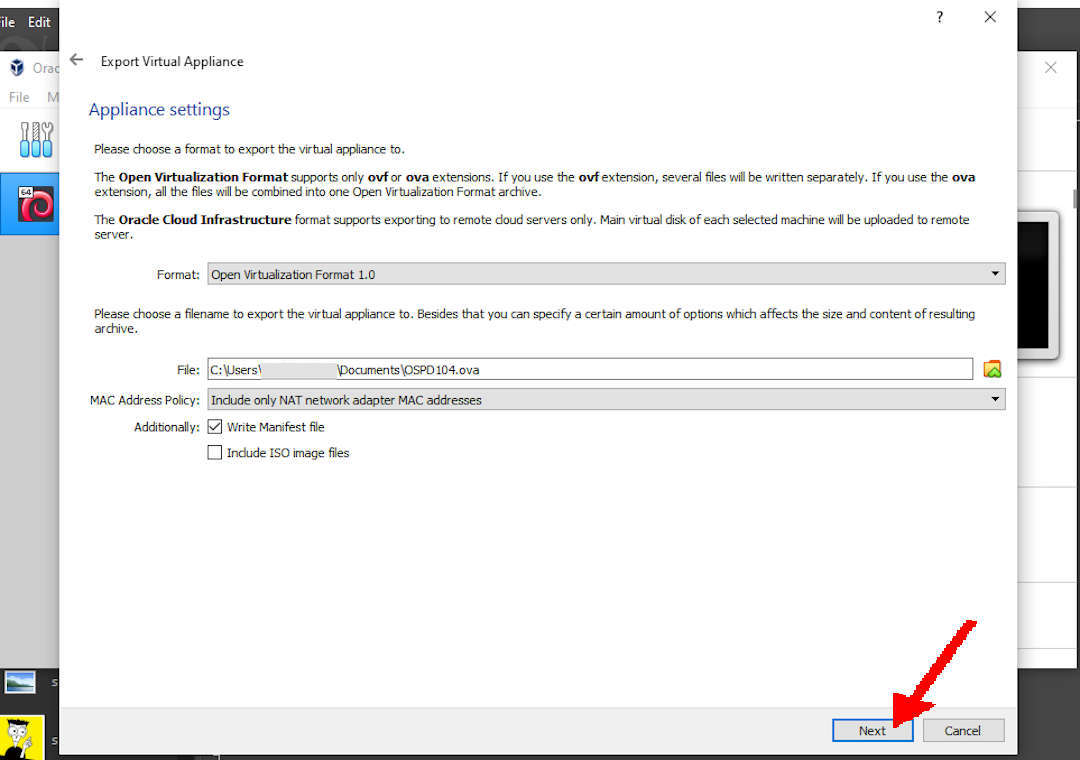
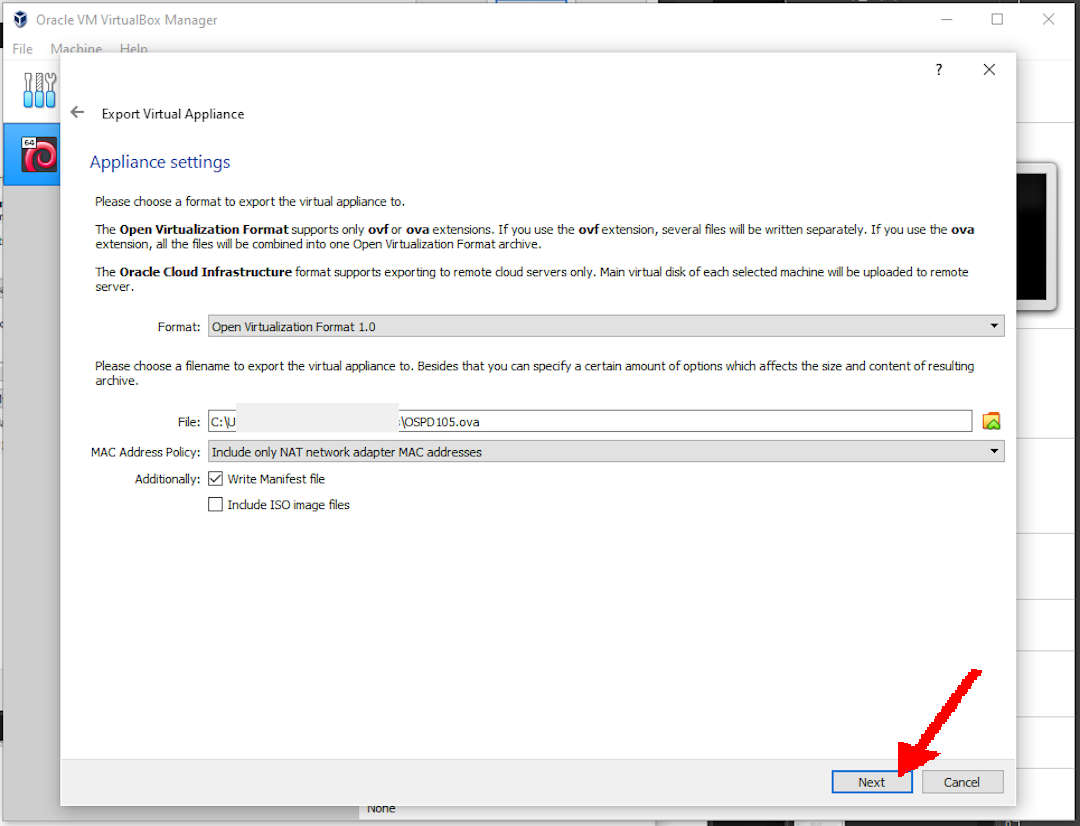
new file:   ../.InstallDebianNetinst.md.swp new file:   ../DebianGuestDeleteOva.md modified:   ../DebianGuestExportOva.md modified:   ../DebianGuestImportOva.md modified:   ../DebianGuestOnVirtualBox.md modified:   ../InstallDebianNetinst.md modified:   ../index.md modified:   B-OSP-01.jpg modified:

Changed region(s): [[0.0, 0.0, 1.0, 1.0], [0.8861, 0.7868, 0.9167, 0.8474]]

diff --git a/DebianGuestImportOva.md b/DebianGuestImportOva.md
@@ -8,20 +8,31 @@
 [TOP](#)
 [BOTTOM](#endofpage)
 [PREV](DebianGuestExportOva.md)
-[NEXT](InstallDebianNetinst.md)
+[NEXT](DebianGuestDeleteOva.md)
 
 # Importing a Debian Guest In OVA Format
 
-You might want to keep **OSPD104** as a backup, and using **OSPD104a** for daily usage.
+## Eg. You might want to keep <span style="color:red; font-weight:bold; font-size:larger;">OSPD105</span> as a backup, and using <span style="color:red; font-weight:bold; font-size:larger;">OSPD105a</span> for daily usage.
 
-<img src="pictures/F-OSP-05.jpg"  width="960">
+<img src="pictures/F-OSP-05b.jpg"  width="960">
+
+<br>
+## Importing OSPD105.ova
 
 <img src="pictures/F-OSP-06.jpg"  width="960">
 
 <br>
-## New Name: "OSPD104a"
+## Open <span style="color:red; font-weight:bold; font-size:larger;">OSPD105.ova</span>
 
-<img src="pictures/F-OSP-07.jpg"  width="960">
+<img src="pictures/F-OSP-07a.jpg"  width="960">
+
+<br>
+## Rename <span style="color:red; font-weight:bold; font-size:larger;">OSPD105</span> to <span style="color:red; font-weight:bold; font-size:larger;">OSPD105a</span>.
+
+<img src="pictures/F-OSP-07b.jpg"  width="960">
+
+<br>
+## Your OSPD105a Guest is READY!
 
 <img src="pictures/F-OSP-08.jpg"  width="960">
 
@@ -37,6 +48,6 @@ You might want to keep **OSPD104** as a backup, and using **OSPD104a** for daily
 [TOP](#)
 [BOTTOM](#endofpage)
 [PREV](DebianGuestExportOva.md)
-[NEXT](InstallDebianNetinst.md)
+[NEXT](DebianGuestDeleteOva.md)
 <br>
 

diff --git a/index.md b/index.md
@@ -10,17 +10,18 @@
 
 # Setting Up a Debian Guest
 
-* [Installing Free Download Manager (FDM)](InstallFDM.html)
-* [Downloading Debian ISO Image](DebianISOImage.html)
-* [Downloading and Installing VirtualBox](InstallVirtualBox.html)
-* [Creating a Debian Guest on VirtualBox](DebianGuestOnVirtualBox.html)
-* [Exporting Debian Guest in OVA format](DebianGuestExportOva.html)
-* [Importing Debian Guest with a different Name](DebianGuestImportOva.html)
-* [Installing Debian Netinst Guest on VirtualBox](InstallDebianNetinst.html)
-* [Export Import Guests](ExportImportGuests.html)
-* [SSH Guest OSPD104b](SSHGuest.html)
-* [Update Debian](UpdateDebian.html)
-* [More Debian Packages](MoreDebianPackages.html)
+* [Installing Free Download Manager (FDM)](InstallFDM.md)
+* [Downloading Debian ISO Image](DebianISOImage.md)
+* [Downloading and Installing VirtualBox](InstallVirtualBox.md)
+* [Creating a Debian Guest on VirtualBox](DebianGuestOnVirtualBox.md)
+* [Exporting Debian Guest in OVA format](DebianGuestExportOva.md)
+* [Importing Debian Guest with a different Name](DebianGuestImportOva.md)
+* [Deleting Debian Guest(s)](DebianGuestDeleteOva.md)
+* [Installing Debian Netinst Guest on VirtualBox](InstallDebianNetinst.md)
+* [Export Import Guests](ExportImportGuests.md)
+* [SSH Guest OSPD104b](SSHGuest.md)
+* [Update Debian](UpdateDebian.md)
+* [More Debian Packages](MoreDebianPackages.md)
 
 <br>
 <hr>

diff --git a/DebianGuestDeleteOva.md b/DebianGuestDeleteOva.md
@@ -1,0 +1,48 @@
+---
+---
+
+[HOME](index.md)
+[ABOUT](README.md)
+[WEB](https://osp4diss.vlsm.org/)
+[GITHUB](https://github.com/UI-FASILKOM-OS/osp4diss/)
+[TOP](#)
+[BOTTOM](#endofpage)
+[PREV](DebianGuestImportOva.md)
+[NEXT](InstallDebianNetinst.md)
+
+# Deleting Debian Guests
+
+## Sometimes you might want to delete your Virtual Guest(s).
+
+### Eg. OSPD105 and OSPD105a
+
+<img src="pictures/J-OSP-00.jpg"  width="960">
+
+<br>
+## Select and Click Right, then REMOVE
+
+<img src="pictures/J-OSP-01.jpg"  width="960">
+
+<br>
+## Delete All Files
+
+<img src="pictures/J-OSP-02.jpg"  width="960">
+
+<br>
+## DONE!
+
+<img src="pictures/J-OSP-03.jpg"  width="960">
+
+
+<br>
+#### ENDOFPAGE
+[HOME](index.md)
+[ABOUT](README.md)
+[WEB](https://osp4diss.vlsm.org/)
+[GITHUB](https://github.com/UI-FASILKOM-OS/osp4diss/)
+[TOP](#)
+[BOTTOM](#endofpage)
+[PREV](DebianGuestImportOva.md)
+[NEXT](InstallDebianNetinst.md)
+<br>
+

diff --git a/InstallDebianNetinst.md b/InstallDebianNetinst.md
@@ -7,7 +7,7 @@
 [GITHUB](https://github.com/UI-FASILKOM-OS/osp4diss/)
 [TOP](#)
 [BOTTOM](#endofpage)
-[PREV](DebianGuestImportOva.md)
+[PREV](DebianGuestDeleteOva.md)
 [NEXT](ExportImportGuests.md)
 
 # Installing Debian NetInst (guest) on VirtualBox
@@ -21,14 +21,16 @@
 
   * Domain: none
 
-  * UserName/Account/Pass: OSP/osp/osp
-
   * Root/Pass: root/osp
 
-  * Single Partition/No swap partition
+  * UserName/Account/Pass: Cicak Bin Kadal/cbkadal/cbkadal
+
+  * **Single Partition/No swap partition**
 
 <br>
-## Starting Guest **OSPD104a**
+## Starting Guest **OSPD105a**
+
+### Select OSDP105a and Click START
 
 <img src="pictures/B-OSP-01.jpg"  width="960">
 
@@ -268,7 +270,7 @@ You might rename **OSPD104a** to whatever.
 [GITHUB](https://github.com/UI-FASILKOM-OS/osp4diss/)
 [TOP](#)
 [BOTTOM](#endofpage)
-[PREV](DebianGuestImportOva.md)
+[PREV](DebianGuestDeleteOva.md)
 [NEXT](ExportImportGuests.md)
 <br>
 

diff --git a/DebianGuestOnVirtualBox.md b/DebianGuestOnVirtualBox.md
@@ -30,6 +30,8 @@
   * NAT from host (127.0.0.1 port 6022) to guest (10.0.2.15 port 22)
 
 <br>
+## Click NEW
+
 <img src="pictures/A-OSP-18.jpg"  width="960">
 
 <br>
@@ -40,7 +42,7 @@
 <img src="pictures/A-OSP-19.jpg"  width="960">
 
 <br>
-* Memory size = 1024 MB
+* Memory size = 1024 MB (This is enough for this OSP!)
 
 <img src="pictures/A-OSP-20.jpg"  width="960">
 
@@ -67,6 +69,8 @@
 <br>
 ## Part 2: Setting the New Guest (In this example OSP205)
 
+### Click SETTING
+
 <img src="pictures/A-OSP-25.jpg"  width="960">
 
 <br>
@@ -87,7 +91,7 @@
 <br>
 ### System: Processor
 
-(Depends on how many cores available)
+### 6 Cores (Depends on how many cores are available)
 
 <img src="pictures/A-OSP-30.jpg"  width="960">
 

diff --git a/DebianGuestExportOva.md b/DebianGuestExportOva.md
@@ -14,18 +14,34 @@
 
 ## <span style="color:red; font-weight:bold; font-size:larger;">Eg. OSPD105</span>
 
+### File (Click left)
+
 <img src="pictures/F-OSP-00.jpg"  width="960">
+
+<br>
+### Export Applience
 
 <img src="pictures/F-OSP-01.jpg"  width="960">
 
+<br>
+### Virtual Machine Name (Eg. OSPD105)
+
 <img src="pictures/F-OSP-02.jpg"  width="960">
 
+<br>
+### Just NEXT
+
 <img src="pictures/F-OSP-03.jpg"  width="960">
+
+<br>
+### You May Fill or Just NEXT
 
 <img src="pictures/F-OSP-04.jpg"  width="960">
 
 <br>
-# DONE!
+# Export DONE! (OSPD105.ova)
+
+<img src="pictures/F-OSP-05b.jpg"  width="960">
 
 <br>
 #### ENDOFPAGE
